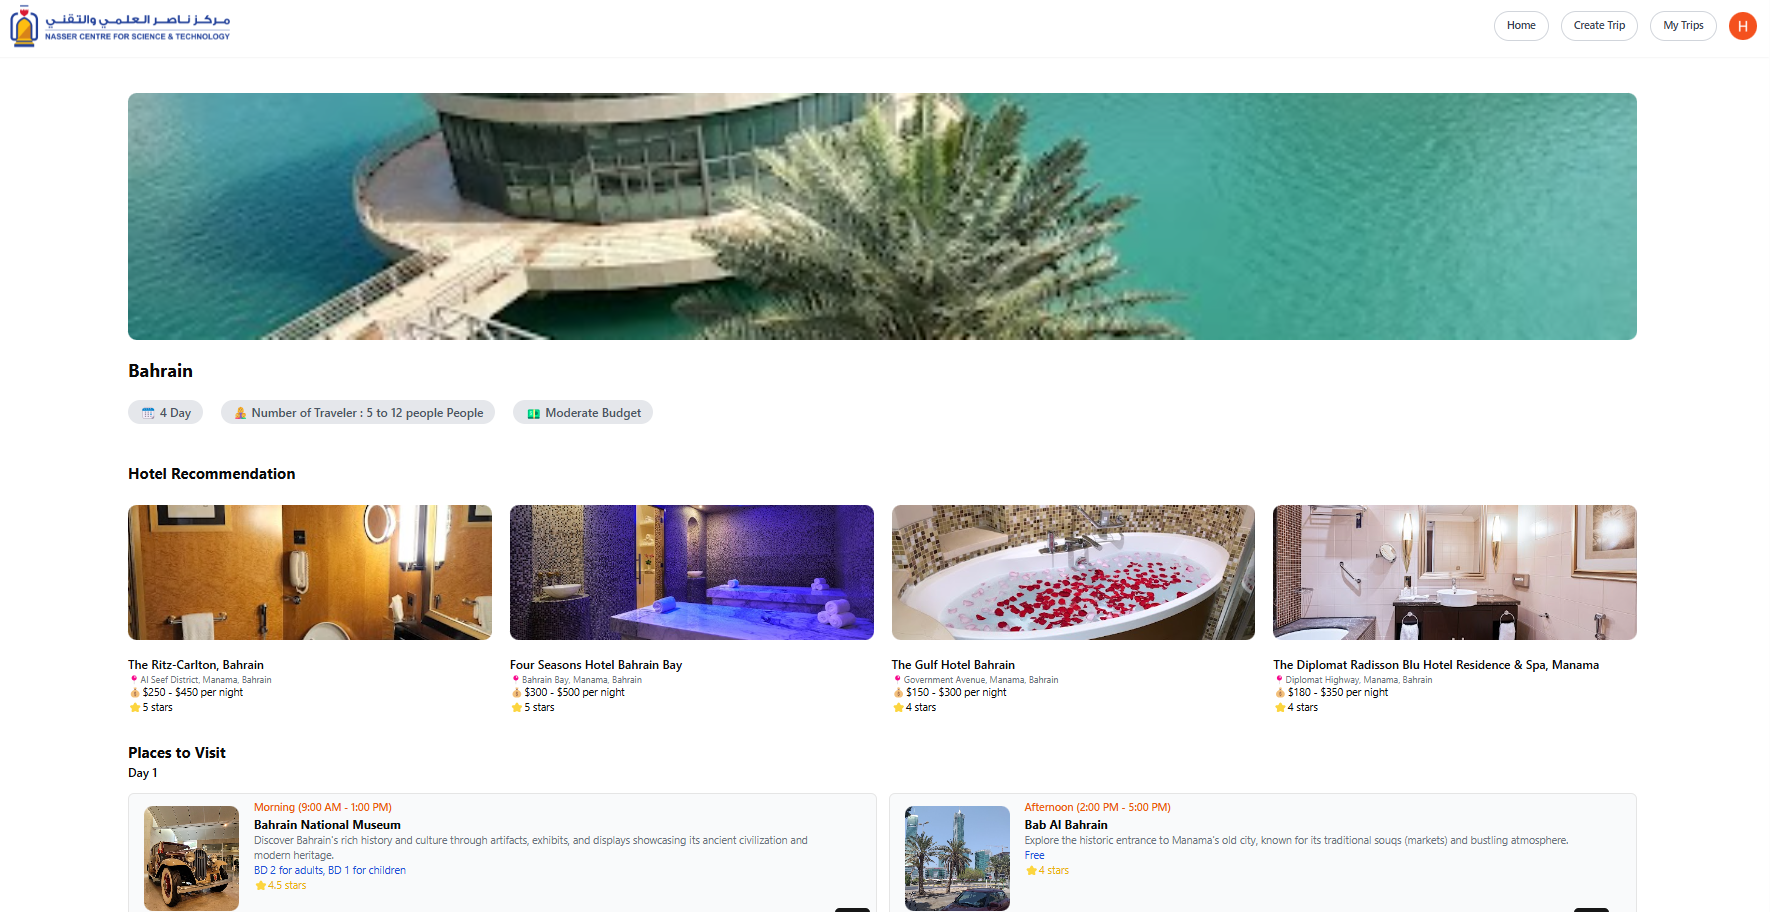
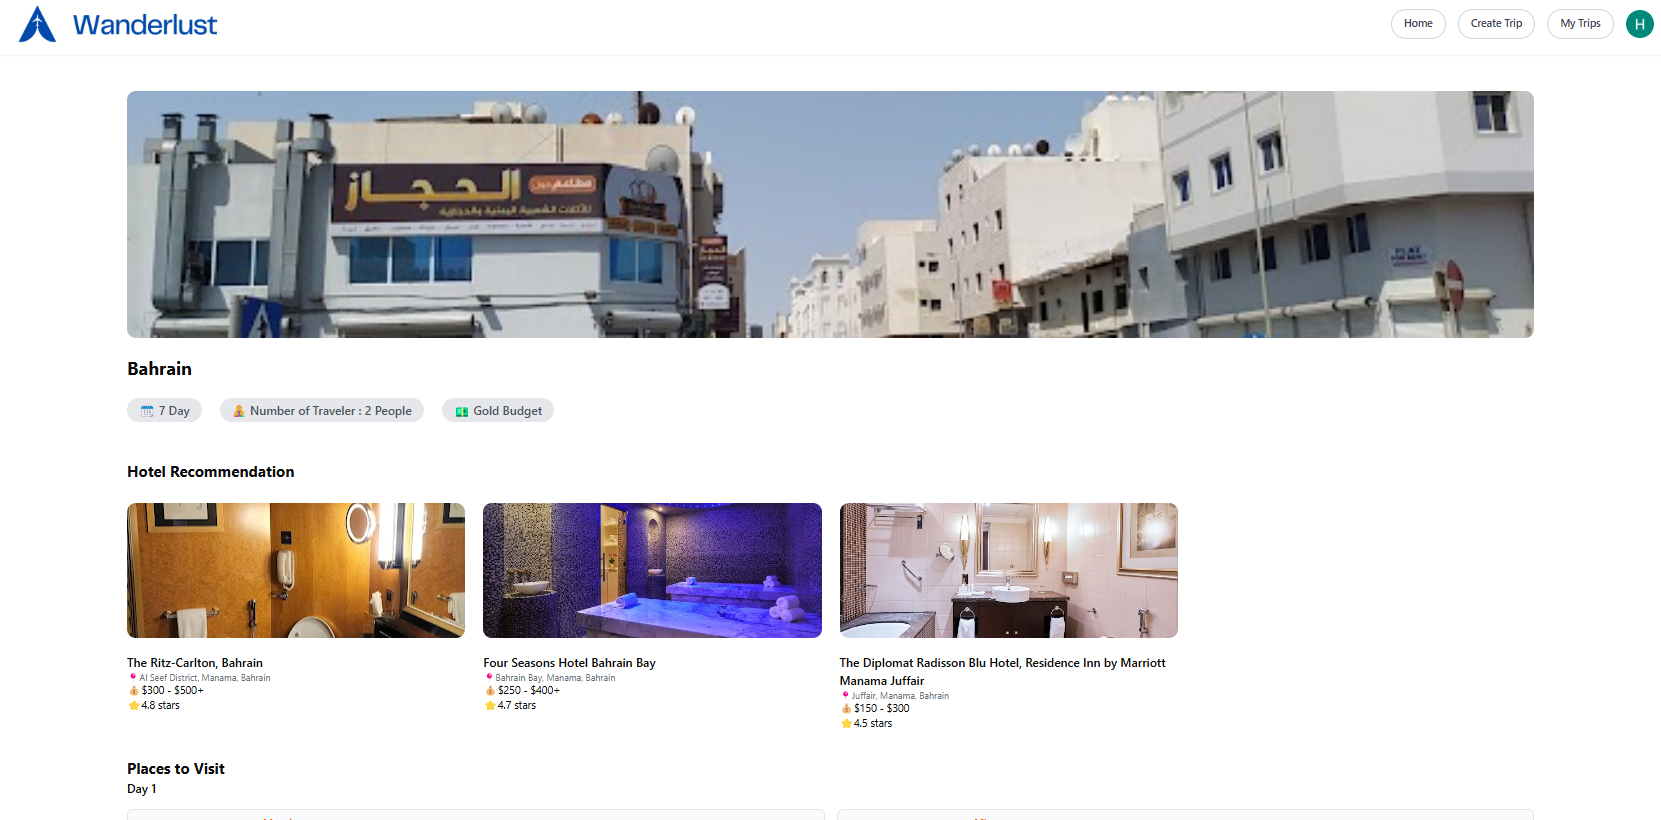
Changes - 5/3/2025 - 7:30

diff --git a/src/components/custom/Hero.jsx b/src/components/custom/Hero.jsx
@@ -1,56 +1,50 @@
-import React from 'react';
-import { Button } from '../ui/button';
-import { Link } from 'react-router-dom';
-import { motion } from 'framer-motion';
+import React from "react";
+import { ContainerScroll } from "/workspaces/NVTC-12.A-AI-Trip-Planner/src/container-scroll-animation.jsx";
+import { Button } from "../ui/button";
+import { Link } from "react-router-dom";
+import { motion } from "framer-motion";
 
 function Hero() {
   return (
-    <motion.div 
-      initial={{ opacity: 0, y: 50 }} 
-      animate={{ opacity: 1, y: 0 }} 
-      exit={{ opacity: 0, y: -50 }} 
-      transition={{ duration: 0.6, ease: "easeInOut" }}
-      className="flex flex-col items-center justify-center min-h-screen bg-white text-black px-6 relative overflow-hidden"
-    >
-      {/* Background Glow Effect */}
-      <div className="absolute inset-0 z-0">
-        <div className="absolute top-1/3 left-1/2 transform -translate-x-1/2 -translate-y-1/2 w-[600px] h-[600px] bg-gradient-to-r from-blue-200 to-cyan-200 opacity-50 rounded-full blur-3xl"></div>
+    <section className="bg-gray-50 flex items-center flex-col min-h-screen justify-center text-black">
+      <div className="flex flex-col overflow-hidden text-center">
+        <ContainerScroll
+          titleComponent={
+            <>
+              <h1 className="text-6xl font-semibold text-black dark:text-white">
+                Explore the Future of Travel
+                <br/>
+                <br />
+                <span className="text-4xl md:text-[6rem] text-blue-800 font-bold mt-1 leading-none">
+                  AI-Powered Trip Planner - Wanderlust
+                  <br/>
+                  
+                </span>
+              </h1>
+              <p className="mt-6 text-3xl sm:text-xl text-gray-600 max-w-2xl mx-auto font-bold">
+              Your personal AI-powered trip planner, crafting tailored itineraries just for you.
+              </p>
+
+              <Link to={'/create-trip'}>
+                <motion.div whileHover={{ scale: 1.05 }} whileTap={{ scale: 0.95 }}>
+                  <Button className="mt-5 px-10 py-3 text-lg font-bold bg-gradient-to-r from-blue-500 to-cyan-500 hover:opacity-90 rounded-xl shadow-lg shadow-cyan-300/50 transform transition-all text-white">
+                    Get Started – It's Free
+                  </Button>
+                </motion.div>
+              </Link>
+            </>
+          }
+        >
+          
+          <img
+            src="/src/assets/landing1.png"
+            alt="Futuristic AI Travel"
+            className="mx-auto rounded-2xl object-contain w-full h-auto mt-8 max-w-full"
+            draggable={false}
+          />
+        </ContainerScroll>
       </div>
-      
-      <div className="text-center relative z-10">
-        <h1 className="text-5xl sm:text-6xl font-extrabold leading-tight text-transparent bg-clip-text bg-gradient-to-r from-blue-500 to-cyan-500">
-          Explore the Future of Travel
-        </h1>
-        <p className="mt-6 text-lg sm:text-xl text-gray-600 max-w-2xl mx-auto">
-          Your personal AI-powered trip planner, crafting tailored itineraries just for you.
-        </p>
-        <Link to={'/create-trip'}>
-          <motion.div 
-            whileHover={{ scale: 1.05 }}
-            whileTap={{ scale: 0.95 }}
-          >
-            <Button className="mt-8 px-8 py-3 text-lg font-bold bg-gradient-to-r from-blue-500 to-cyan-500 hover:opacity-90 rounded-xl shadow-lg shadow-cyan-300/50 transform transition-all text-white">
-              Get Started – It's Free
-            </Button>
-          </motion.div>
-        </Link>
-      </div>
-      
-      {/* Floating AI-Themed Image */}
-      <motion.div 
-        initial={{ y: 20 }} 
-        animate={{ y: -20 }} 
-        transition={{ duration: 2, repeat: Infinity, repeatType: "reverse", ease: "easeInOut" }}
-        className="relative mt-10 sm:mt-16"
-      >
-        <img src='/src/assets/landing1.png' className='w-[900px] sm:w-[900px] drop-shadow-xl' alt='Futuristic AI Travel' />
-      </motion.div>
-      
-      {/* Footer */}
-      <footer className="mt-10 text-center text-gray-500 text-sm relative z-10">
-        &copy; {new Date().getFullYear()} Made By Hassan Naeem - NCST. All rights reserved.
-      </footer>
-    </motion.div>
+    </section>
   );
 }
 

diff --git a/src/create-trip/index.jsx b/src/create-trip/index.jsx
@@ -145,7 +145,7 @@ function CreateTrip() {
         <div>
           <label className="text-xl my-3 font-medium">What is Your Budget?</label>
           <p>The budget is exclusively allocated for activities and dining purposes.</p>
-          <div className="grid grid-cols-3 gap-5 mt-5 mb-5">
+          <div className="grid grid-cols-1 gap-5 mt-5 mb-5">
             {SelectBudgetOptions.map((item, index) => (
               <div
                 key={index}
@@ -154,14 +154,20 @@ function CreateTrip() {
                 ${formData?.budget === item.title && 'shadow-lg border-cyan-500'}`}
               >
                 <h2 className="text-3xl">{item.icon}</h2>
-                <h2 className="font-bold text-lg">{item.title}</h2>
+                <h2   
+                  className="font-bold text-2xl"  
+                  style={{ color: item.title === 'Bronze' ? '#CD7F32' :   
+                                  item.title === 'Silver' ? '#C0C0C0' :   
+                                  item.title === 'Gold' ? '#FFD700' : 'inherit' }}>  
+                  {item.title}  
+                </h2>  
                 <h2 className="text-sm text-gray-500">{item.desc}</h2>
               </div>
             ))}
           </div>
 
           <label className="text-xl font-medium my-3"> Who do you plan on traveling with on your next adventure?</label>
-          <div className="grid grid-cols-3 gap-5 mt-5">
+          <div className="grid grid-cols-1 gap-5 mt-5">
             {SelectTravelList.map((item, index) => (
               <div
                 key={index}
@@ -170,7 +176,7 @@ function CreateTrip() {
                 ${formData?.traveler === item.people && 'shadow-lg border-cyan-500'}`}
               >
                 <h2 className="text-3xl">{item.icon}</h2>
-                <h2 className="text-lg font-bold">{item.title}</h2>
+                <h2 className="text-2xl font-bold">{item.title}</h2>
                 <h2 className="text-sm text-gray-500">{item.desc}</h2>
               </div>
             ))}
@@ -182,7 +188,7 @@ function CreateTrip() {
         <Button onClick={OnGenerateTrip} disabled={loading}>
           {loading ? (
             <AiOutlineLoading3Quarters className="h-7 w-7 animate-spin" />
-          ) : 'Generate Trip'}
+          ) : 'Generate Trip ✈'}
         </Button>
       </div>
 
@@ -190,7 +196,7 @@ function CreateTrip() {
         <DialogContent>
           <DialogHeader>
             <DialogDescription>
-              <img src="src/assets/NVTC.png" alt="Logo" />
+              <img src="src/assets/WanderlustNBG.png" alt="Logo" />
               <h2 className="font-bold text-lg mt-6">Sign In with Google</h2>
               <p>Sign In to the App with Google authentication securely</p>
               <Button onClick={login} className="w-full mt-5 flex gap-4 items-center">

diff --git a/src/components/custom/Header.jsx b/src/components/custom/Header.jsx
@@ -47,7 +47,7 @@ function Header() {
     <div className='p-3 shadow-sm flex justify-between items-center px-4'>
       {/* Logo */}
       <a href="/">
-        <img src="/src/assets/NVTC2.png" className="cursor-pointer hover:opacity-80 transition-opacity duration-300"/>
+        <img src="/src/assets/WanderlustNBG2.png" className="cursor-pointer hover:opacity-80 transition-opacity duration-300"/>
       </a>
 
       <div className="relative">
@@ -105,7 +105,7 @@ function Header() {
         <DialogContent>
           <DialogHeader>
             <DialogDescription>
-              <img src="/src/assets/NVTC.png" />
+              <img src="/src/assets/WanderlustNBG.png" />
               <h2 className="font-bold text-lg mt-6">Sign In with Google</h2>
               <p>Sign In to the App with Google authentication securely</p>
               <Button onClick={login} className="w-full mt-5 flex gap-4 items-center">

diff --git a/src/view-trip/components/PlaceCardItem.jsx b/src/view-trip/components/PlaceCardItem.jsx
@@ -26,7 +26,7 @@ function PlaceCardItem({ place }) {
             <Link to={'https://www.google.com/maps/search/?api=1&query=' + place?.placeName + "," + place?.geoCoordinates} target='_blank'>
                 <div className='my-4 bg-gray-50 p-2 gap-2 border rounded-lg flex flex-cols-2 hover:scale-105 transition-all hover:shadow-md cursor-pointer '>
                     <div className='py-2 mx-3'>
-                        <img src={photoUrl ? photoUrl : '/public/road-trip-vacation.png'} className='w-[140px] h-[140px] rounded-xl object-cover' />
+                        <img src={photoUrl ? photoUrl : '/road-trip-vacation.png'} className='w-[140px] h-[140px] rounded-xl object-cover' />
                     </div>
                     <div>
                         <h2 className='font-medium text-sm text-orange-600'>{place.time}</h2>

diff --git a/src/view-trip/components/HotelCardItem.jsx b/src/view-trip/components/HotelCardItem.jsx
@@ -24,7 +24,7 @@ function HotelCardItem({item}) {
     <div>
       <Link to={'https://www.google.com/maps/search/?api=1&query='+item?.hotelName+ "," +item?.hotelAddress} target='_blank'>
                     <div className='hover:scale-105 transition-all cursor-pointer'>
-                        <img src={photoUrl ? photoUrl : '/public/road-trip-vacation.png'}  className='rounded-xl h-[180px] w-full object-cover'/>
+                        <img src={photoUrl ? photoUrl : '/road-trip-vacation.png'}  className='rounded-xl h-[180px] w-full object-cover'/>
                         <div className='my-3 py-2'>
                             <h2 className='font-medium'>{item?.hotelName}</h2>
                             <h2 className='text-xs text-gray-500'>📍{item?.hotelAddress} </h2>

diff --git a/src/view-trip/components/InfoSection.jsx b/src/view-trip/components/InfoSection.jsx
@@ -22,7 +22,7 @@ function InfoSection({trip}) {
   }
   return (
     <div>
-      <img src={photoUrl ? photoUrl : '/public/road-trip-vacation.png'}  className='h-[330px] w-full object-cover rounded-xl'/>
+      <img src={photoUrl ? photoUrl : '/road-trip-vacation.png'}  className='h-[330px] w-full object-cover rounded-xl'/>
        <div className='flex justify-between items-center'>
             <div className='my-6 flex flex-col gap-2'>
                 <h2 className='font-bold text-2xl'>{trip?.userSelection?.location}</h2>

diff --git a/src/constants/options.jsx b/src/constants/options.jsx
@@ -3,19 +3,19 @@ export const SelectBudgetOptions=[
         id:1,
         title:'Bronze',
         desc:"Stay conscious of costs",
-        icon:'💵',
+        icon:'',
     },
     {
         id:2,
         title:'Silver',
         desc:"Keep cost on the average side",
-        icon:'💰',
+        icon:'',
     },
     {
         id:3,
         title:'Gold',
         desc:"Don't worry about cost",
-        icon:'💎',
+        icon:'',
     },
 ]
 

diff --git a/index.html b/index.html
@@ -4,7 +4,7 @@
     <meta charset="UTF-8" />
     <link rel="icon" type="image/svg+xml" href="/src/assets/favicon.png" />
     <meta name="viewport" content="width=device-width, initial-scale=1.0" />
-    <title>NCST 12.AI - AI TRIP PLANNER</title>
+    <title>Wanderlust - AI TRIP PLANNER</title>
   </head>
   <body>
     <div id="root"></div>
